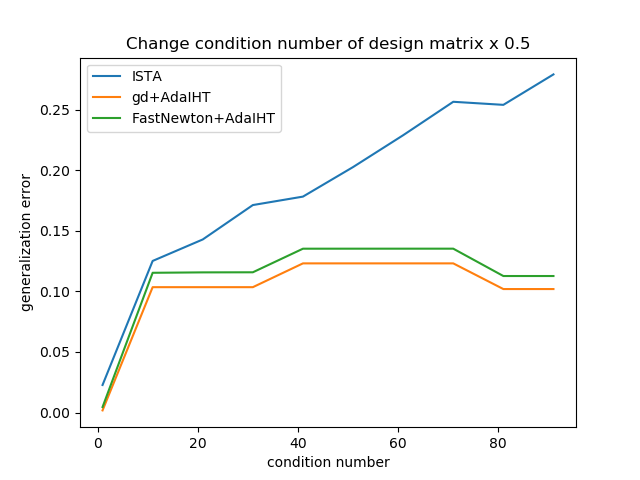
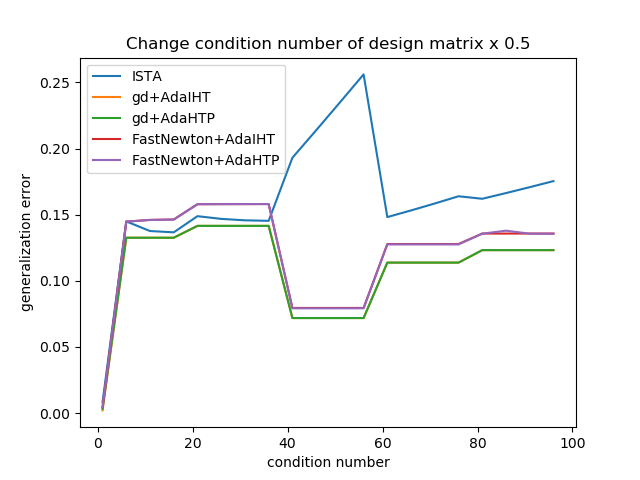
condition number simulation results

diff --git a/change_condition_number.py b/change_condition_number.py
@@ -24,7 +24,7 @@ class ChangeConditionNumber:
         self.num_iter = constants.GD_NUM_ITERATION  # number of iterations
         self.x_original = x
         self.gd_types = (constants.GD_NAME, constants.FAST_NEWTON_NAME)
-        self.iter_types = (constants.IHT_NAME, )
+        self.iter_types = (constants.IHT_NAME, constants.HTP_NAME)
         self.iterative_threshold_methods = (constants.ISTA_NAME, )
 
     def _update_algos_map(self, algos_map, algo_name, kappa, error_added):
@@ -88,7 +88,7 @@ class ChangeConditionNumber:
         for _ in range(self.steps):  # Run several experiments
             pool = mp.Pool(mp.cpu_count())
             pool_results = pool.map(self.run_one_experiment,
-                                    np.arange(1, 101, 10), 1)
+                                    np.arange(1, 101, 5), 1)
             # To add pool_results into algos_map
             for map_result in pool_results:
                 for algo_name in map_result:

diff --git a/utils/constants.py b/utils/constants.py
@@ -18,7 +18,7 @@ ANISOTROPIC_NAME = "anisotropic"
 STEPS = 20  # number of experiments
 N_ITERATION = 400  # number of iterations in ISTA or Hard Threshold
 GD_STEPS = 10  # number of experiments in compare_gradient_descent
-GD_NUM_ITERATION = 200  # number of iterations in ISTA or Hard Threshold
+GD_NUM_ITERATION = 400  # number of iterations in ISTA or Hard Threshold
 FAST_NEWTON_NUM_GD = 10 # number of gradient descent steps in fast newton
 N, P, S = 200, 1000, 10
 # noise
@@ -34,7 +34,7 @@ X = np.random.permutation(X)
 FAST_NEWTON_NAME = "FastNewton"
 ISTA_NAME = "ISTA"
 IHT_NAME = "AdaIHT"
-HTP_NAME = "HTP"
+HTP_NAME = "AdaHTP"
 
 GD_NAME = "gd"
 NGD_NAME = "ngd"
